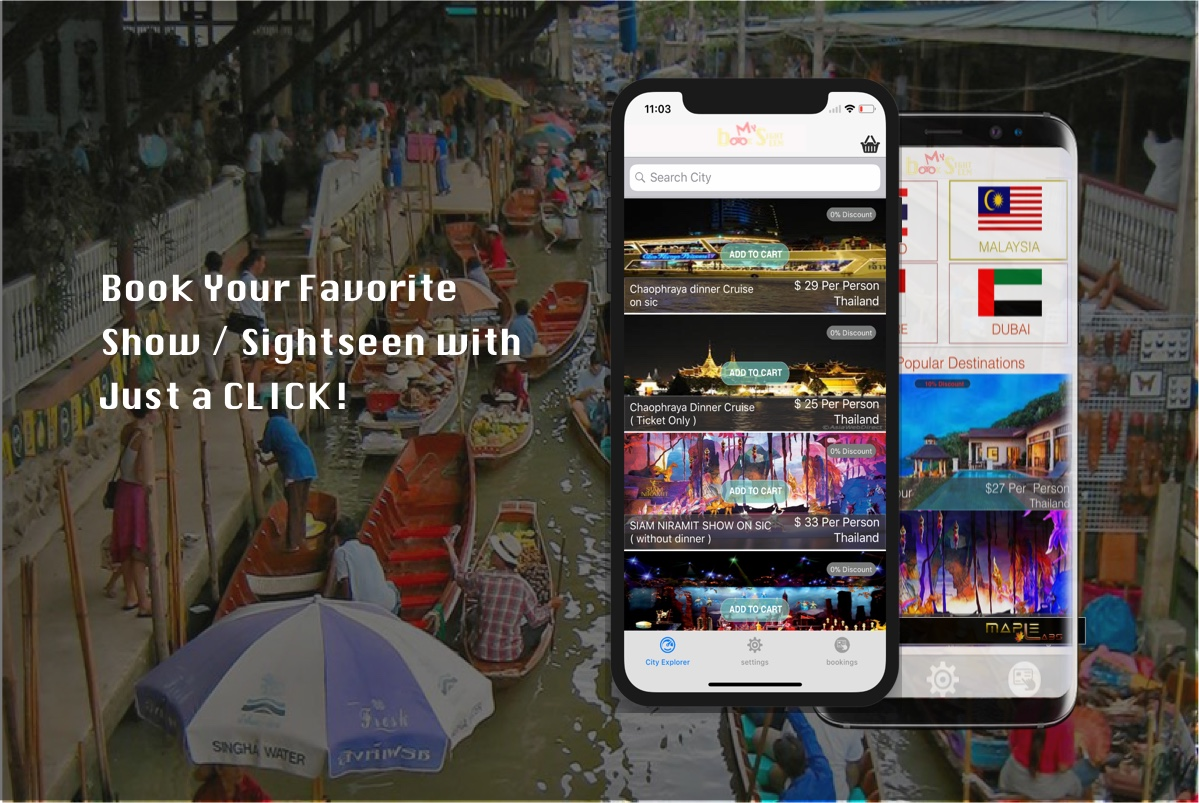
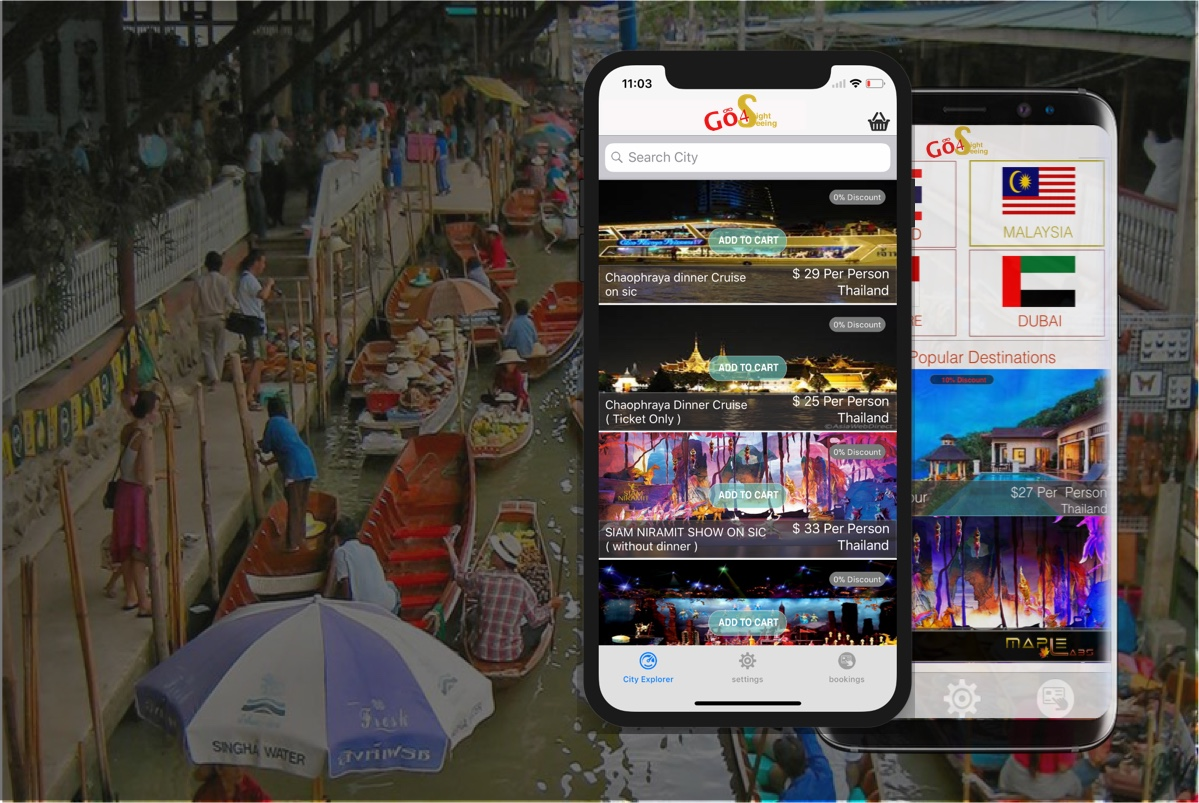
changed images and content according to go4sightseen

Changed region(s): [[0.4629, 0.0623, 0.9566, 0.9651], [0.0617, 0.4047, 0.432, 0.5293], [0.0617, 0.3425, 0.4012, 0.3736]]

diff --git a/resources/assets/js/components/Front-View.vue b/resources/assets/js/components/Front-View.vue
@@ -1,11 +1,11 @@
 <template lang="html">
-  <div class="">
+  <div class="frontview">
     <header class="masthead masthead-bg">
       <div class="container h-100">
         <div class="row h-100">
           <div class="col-lg-8 my-auto">
             <div class="header-content mx-auto">
-              <h1 class="mb-5">Go4SightSeeing is fast and fun way to explore and book unique Sight Seen, Shows, Activities and Experiences at the Lowest Prices Guaranteed.</h1>
+            <h1 class="mb-5"><span class="sighttitle">Go4</span><span class="sighttitlecont">SightSeeing</span> is fast and fun way to explore and book unique Sight Seen, Shows, Activities and Experiences at the Lowest Prices Guaranteed.</h1>
             </div>
           </div>
           <div class="col-lg-4 my-auto">
@@ -14,7 +14,7 @@
                 <div class="device">
                   <div class="screen">
                     <!-- Demo image for screen mockup, you can put an image here, some HTML, an animation, video, or anything else! -->
-                    <img :src="'images/frontimages/dashboard_banner.jpg'" class="img-fluid" alt="">
+                    <img :src="'images/frontimages/dashboardiphone6.jpg'" class="img-fluid" alt="">
                   </div>
                   <div class="button">
                     <!-- You can hook the "home button" to some JavaScript events or just remove it -->
@@ -122,7 +122,7 @@
 
     <section class="features" id="features">
       <div class="container">
-        <div class="section-heading text-center">
+        <div class="headingcolor text-center">
           <h2>Book your favourite Sight Seen or Show with just CLICK of a Button!</h2>
           <p class="text-muted"></p>
           <hr>
@@ -130,11 +130,11 @@
         <div class="row">
           <div class="col-lg-4">
             <div class="device-container">
-              <div class="device-mockup iphone6_plus portrait white" style="padding-bottom: 0;margin-left: 60px;">
+              <div class="device-mockup iphone6_plus portrait white s8bannerimg " style="padding-bottom: 0;">
                 <!-- <div class="device">
                   <div class="screen"> -->
                     <!-- Demo image for screen mockup, you can put an image here, some HTML, an animation, video, or anything else! -->
-                    <img :src="'images/frontimages/BmssBannerAndroid.png'" class="img-fluid" alt="BmssBannerAndroid.png">
+                    <img :src="'images/frontimages/BmssBannerAndroid.jpg'" class="img-fluid" alt="BmssBannerAndroid.jpg">
                   <!-- </div>
                   <div class="button">
                     You can hook the "home button" to some JavaScript events or just remove it
@@ -147,7 +147,7 @@
             <div class="container-fluid">
               <div class="row">
                 <div class="get_app_text">
-                  <h1>Download Go4SightSeeing now</h1>
+                  <h1>Download <span class="sighttitle">Go4</span><span class="sighttitlecont">SightSeeing</span> now</h1>
                   <h1>on</h1>
                   <h1>IOS and Android Phone.</h1>
                 </div>
@@ -171,15 +171,19 @@
     </section>
 
     <section class="cta">
-      <img :src="'images/frontimages/banner-startbooking_bg.png'" alt="ios_download.png"/>
-       <div class="cta-content">
-        <div class="cta_text_stop">
-          Stop Waiting...
-        </div>
-        <div class="cta_text_start">
-          Start Booking!
-        </div>
-      </div>
+      <img :src="'images/frontimages/banner-startbooking_bg.jpg'" alt="ios_download.png"/>
+       <div class="container">
+         <div class="row justify-content-start">
+           <div class=" col-md-6 cta-content">
+            <div class="cta_text_stop padding-top-lg">
+              Stop Waiting...
+            </div>
+            <div class="cta_text_start">
+              Start Booking!
+            </div>
+          </div>
+         </div>
+       </div>
       <!-- <div class="overlay">
         <img :src="'images/frontimages/banner-startbooking.png'" alt="ios_download.png"/>
       </div> -->
@@ -306,7 +310,6 @@ export default {
     left: 10%;
     color: #fff;
     letter-spacing: 2px;
-    width: 100%;
   }
   section.cta .cta-content .cta_text_start{
     padding-top: 2%;
@@ -338,6 +341,12 @@ export default {
   }
   .top_countries{
     margin-bottom: 1rem;
+  }
+  .s8bannerimg{
+    text-align: center;
+  }
+  .s8bannerimg img{
+    max-width:270px;
   }
   .tweets img{
     border-radius: 10px;

diff --git a/resources/assets/js/components/AboutUs.vue b/resources/assets/js/components/AboutUs.vue
@@ -2,15 +2,15 @@
   <div class="container h-100 margin-top-xl padding-top-lg">
     <div class="row h-100 padding-top-xl padding-bottom-lg">
         <div class="col-lg-6 col-md-6 col-sm-12">
-          <div class="aboutus">
-            <h2>Some Words <strong>About Us</strong></h2>
+          <div class="aboutus headingcolor">
+            <h2>Some Words<strong>About Us</strong></h2>
             <p>
               <strong>Go4SightSeeing </strong>is fast and fun way to explore and book unique Sight Seen, Shows, Activities and Experiences at the Lowest Prices Guaranteed.With just a few clicks, get ready to enjoy the Siam Nimrat show no big queues to get tickets , enjoy Santosa isLand under water park and other attractions.So Just click book and go to your favourite destination.
             </p>
           </div>
         </div>
         <div class="col-lg-6 col-md-6 col-sm-12">
-          <div class="aboutusimage">
+          <div class="aboutusimage ">
             <img class="img-fluid" :src="'/images/frontimages/about-us-img-2.jpg'" alt="">
           </div>
         </div>
@@ -20,10 +20,18 @@
         <div class="specialaimage">
           <img class="img-fluid" :src="'/images/frontimages/about-us-img-1.jpg'" alt="">
         </div>
+        <div class="specialaimage-text">
+          <ul>
+            <li>Book Your Favourite</li>
+            <li>Show/Sightseen</li>
+            <li>with</li>
+            <li>Just a CLICK</li>
+          </ul>
+        </div>
       </div>
       <div class="col-lg-6 col-md-6 col-sm-12">
-        <div class="specialcontent ">
-          <h2>What is special and great about Go4SightSeeing</h2>
+        <div class="specialcontent headingcolor">
+          <h2>What is special and great about <span class="sighttitle">Go4</span>SightSeeing</h2>
           <ul>
             <li>Easy way to explore new shows , sight seen, locations which click of button you can book it. </li>
             <li>Easy cancellation no charges if cancel 48 hours before show.</li>
@@ -45,16 +53,26 @@ export default {
 
 <style lang="css">
 .aboutusimage{
-  width: 500px;
+  max-width: 500px;
 }
 .aboutusimage img{
   border-radius: 5px;
 }
 .specialaimage{
-  width: 500px;
+  max-width: 500px;
+  position: relative;
 }
 .specialaimage img{
   border-radius: 5px;
 }
-
+.specialaimage-text{
+  position: absolute;
+  top: 60px;
+  left: 5px;
+  color: #ffffff;
+  text-align: center;
+}
+.specialaimage-text ul{
+  list-style:none;
+}
 </style>

diff --git a/resources/assets/js/components/Support.vue b/resources/assets/js/components/Support.vue
@@ -3,7 +3,7 @@
     <div class="container h-100 margin-top-xl padding-top-xl padding-bottom-xl">
       <div class="row h-100">
         <div class="col-md-6">
-          <div class="support_wrap padding-md">
+          <div class="support_wrap padding-md headingcolor">
             <h2>Soupport Title</h2>
             <div class="support_desc padding-md">
               <p><strong>Go4SightSeeing </strong>is fast and fun way to explore and book unique Sight Seen, Shows, Activities and Experiences at the Lowest Prices Guaranteed.With just a few clicks, get ready to enjoy the Siam Nimrat show no big queues to get tickets , enjoy Santosa isLand under water park and other attractions.So Just click book and go to your favourite destination.</p>
@@ -18,7 +18,7 @@
           </div>
         </div>
         <div class="col-md-6">
-          <div class="form_wrapper padding-md">
+          <div class="form_wrapper padding-md headingcolor">
             <h2>Contact Us Through Email</h2>
             <div v-if="errormessage == 'Name'" class="text-danger d-inline">{{errormessage}} </div><div v-if="errormessage == 'Email'" class="text-danger d-inline">{{errormessage}} </div><div v-if="errormessage == 'Message'" class="text-danger d-inline">{{errormessage}} </div><div v-if="errormessage" class="text-danger d-inline">Feild is Empty</div>
             <div class="contactusform ">

diff --git a/resources/assets/js/components/ContactUs.vue b/resources/assets/js/components/ContactUs.vue
@@ -3,7 +3,7 @@
     <div class="container h-100 margin-top-xl padding-top-xl padding-bottom-xl">
       <div class="row h-100">
         <div class="col-md-6">
-          <div class="contactusform ">
+          <div class="contactusform headingcolor">
             <h2>Email us </h2>
             <div v-if="errormessage == 'Name'" class="text-danger d-inline">{{errormessage}} </div><div v-if="errormessage == 'Email'" class="text-danger d-inline">{{errormessage}} </div><div v-if="errormessage == 'Message'" class="text-danger d-inline">{{errormessage}} </div><div v-if="errormessage" class="text-danger d-inline">Feild is Empty</div>
             <div class="name padding-md">
@@ -27,7 +27,7 @@
           </div>
         </div>
         <div class="col-md-6 ">
-          <div class="address col-md-12">
+          <div class="address col-md-12 headingcolor">
             <h2>Location</h2>
             <div class="locationcontent padding-md">
               <div class="location">

diff --git a/resources/assets/js/components/Terms&Conditions.vue b/resources/assets/js/components/Terms&Conditions.vue
@@ -4,7 +4,7 @@
       <div class="container h-100 padding-top-lg ">
         <div class="row h-100 paddig-top-xl padding-bottom-lg">
           <div class="col-xl-12 col-md-12 col-sm-12 padding-xl">
-            <div class="t_and_c_title margin-top-lg padding-xl text-center">
+            <div class="t_and_c_title margin-top-lg padding-xl text-center headingcolor">
               <h1>Terms & Conditions</h1>
             </div>
           </div>

diff --git a/resources/assets/css/frontcss/custom.css b/resources/assets/css/frontcss/custom.css
@@ -87,3 +87,10 @@
 .headingcolor h2{
   color: #D5B22F;
 }
+
+.sighttitle{
+  color: #E81516;
+}
+.sighttitlecont{
+  color: #D5B22F;
+}
